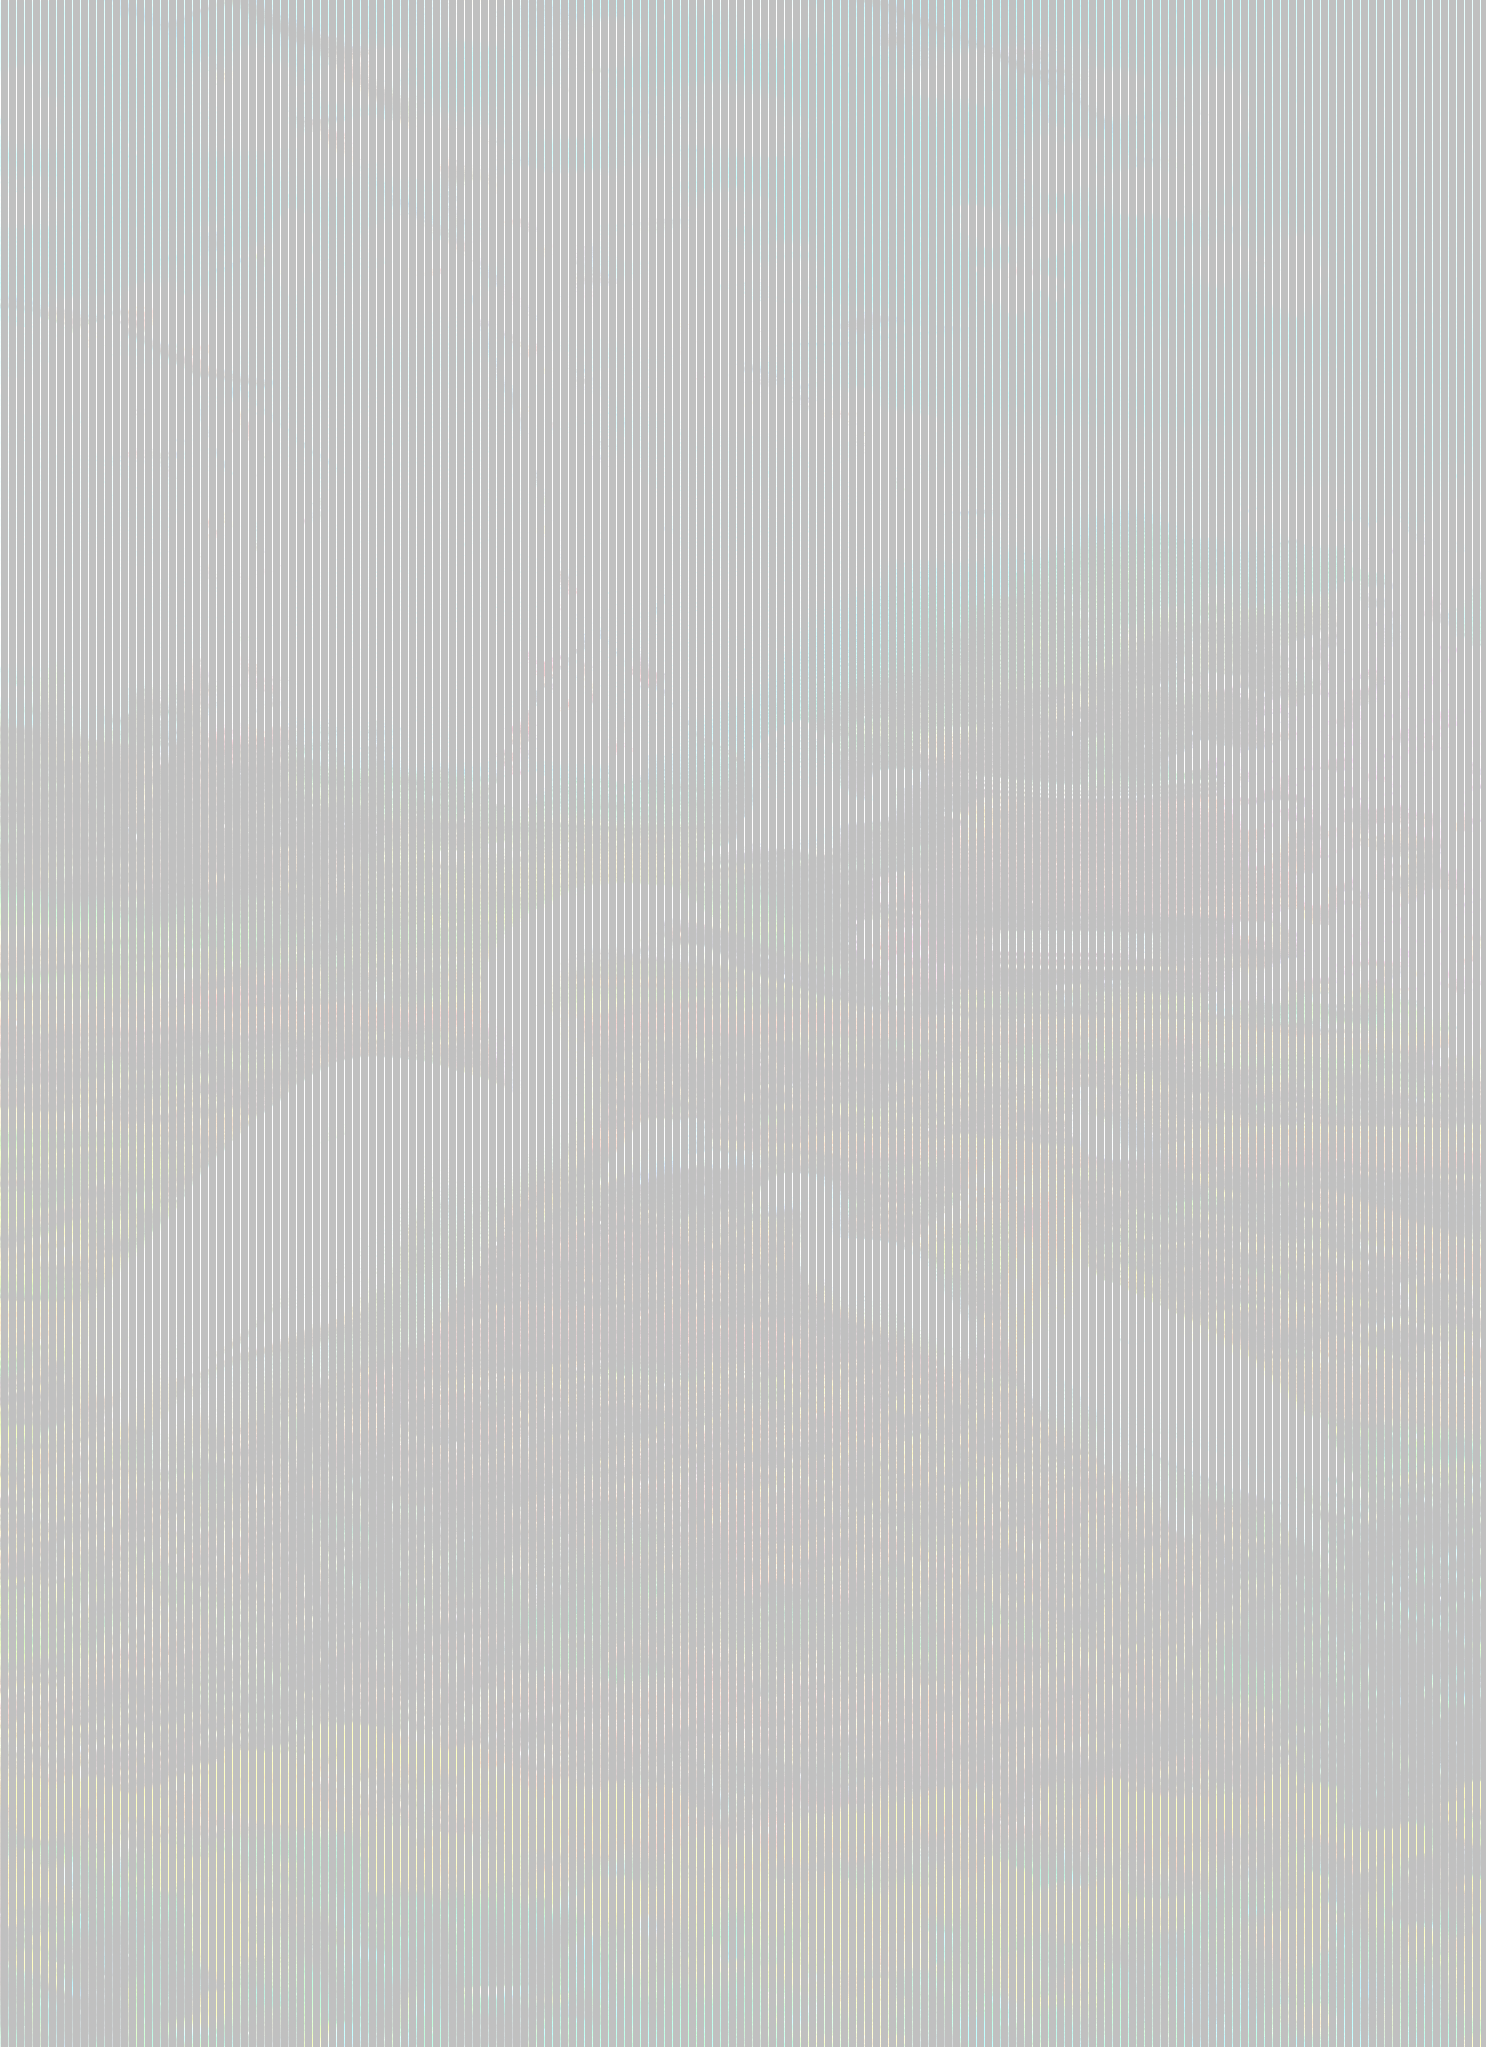
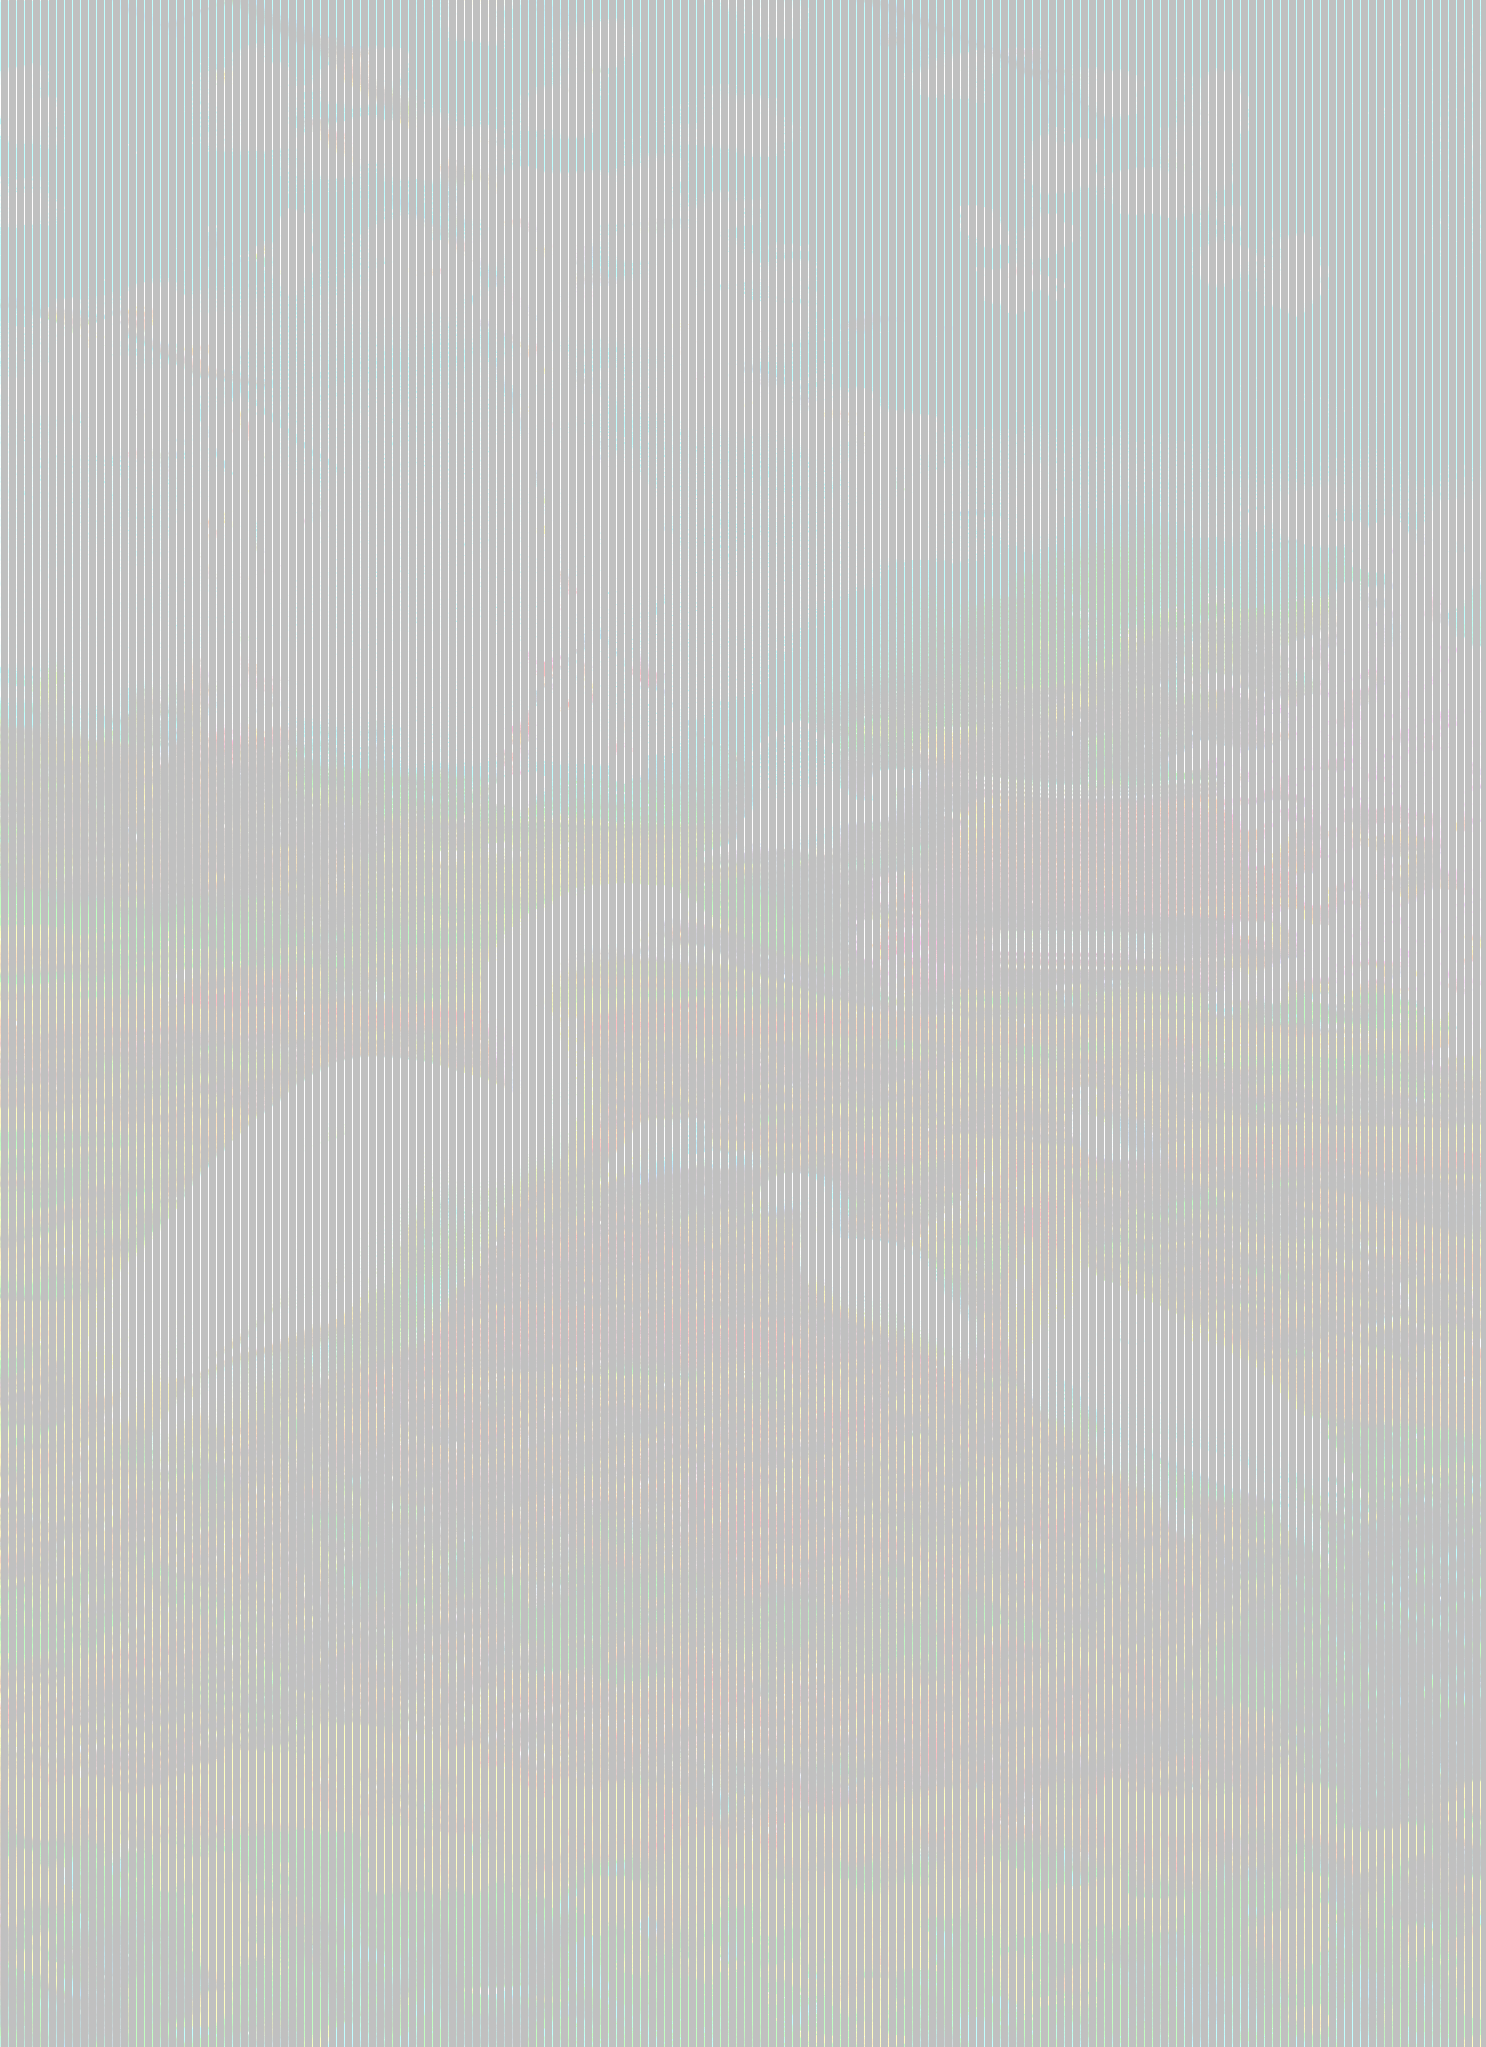
Change img src to lenticular

diff --git a/egret_trial.html b/egret_trial.html
@@ -14,16 +14,16 @@
  <body>
     <div class="bright-container">
         <div class="ascii-plant-1">
-            <img src="bright_saturated_high_layer_1.png" alt="Yellow orchid" id="yellow-ascii">
+            <img src="lenticular_section_1.png" alt="Yellow orchid" id="yellow-ascii">
         </div>
         <div class="ascii-plant-3"> 
-            <img src="bright_saturated_high_layer_2.png" alt="Pink orchid" id="pink-ascii">
+            <img src="lenticular_section_2.png" alt="Pink orchid" id="pink-ascii">
         </div>
         <div class="ascii-plant-4"> 
-            <img src="bright_saturated_high_layer_3.png" alt="Lilac orchid" id="lilac-ascii">
+            <img src="lenticular_section_3.png" alt="Lilac orchid" id="lilac-ascii">
         </div>
         <div class="ascii-plant-5"> 
-            <img src="bright_saturated_high_layer_4.png" alt="Bright pink orchid" id="bright-pink-ascii">
+            <img src="lenticular_section_4.png" alt="Bright pink orchid" id="bright-pink-ascii">
         </div>
     </div>  
   <script src="egret_trial.js"></script>
